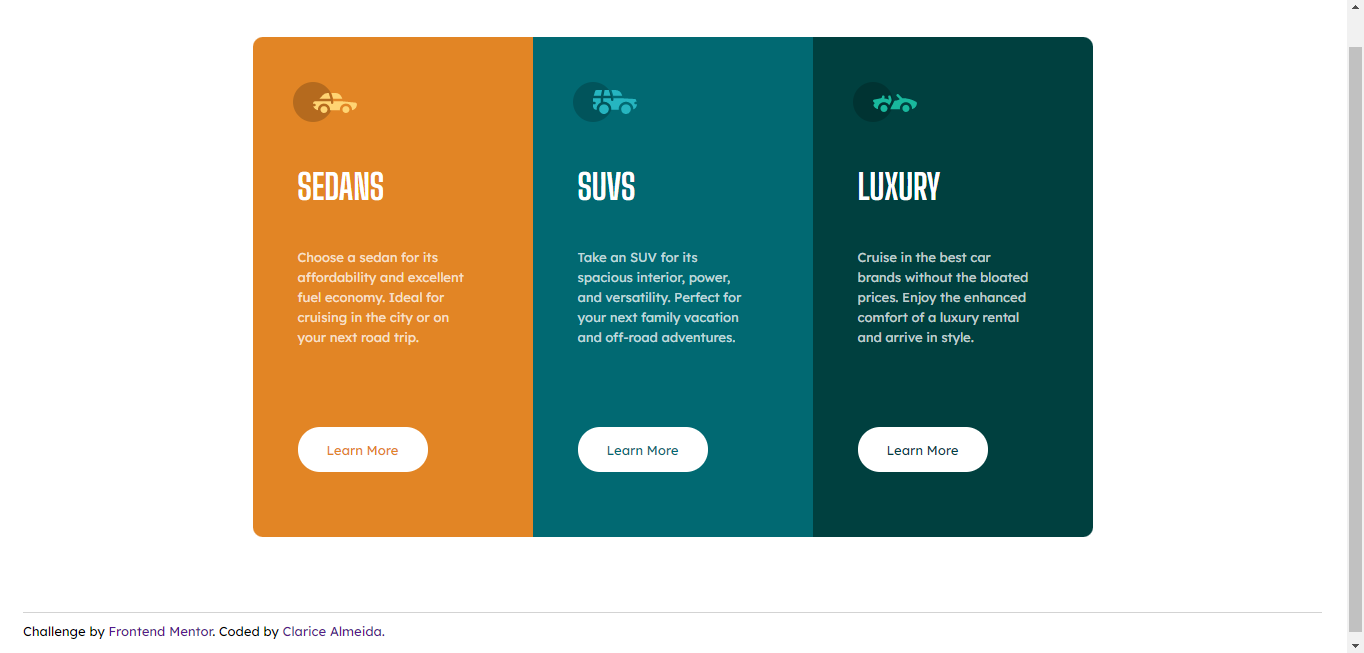
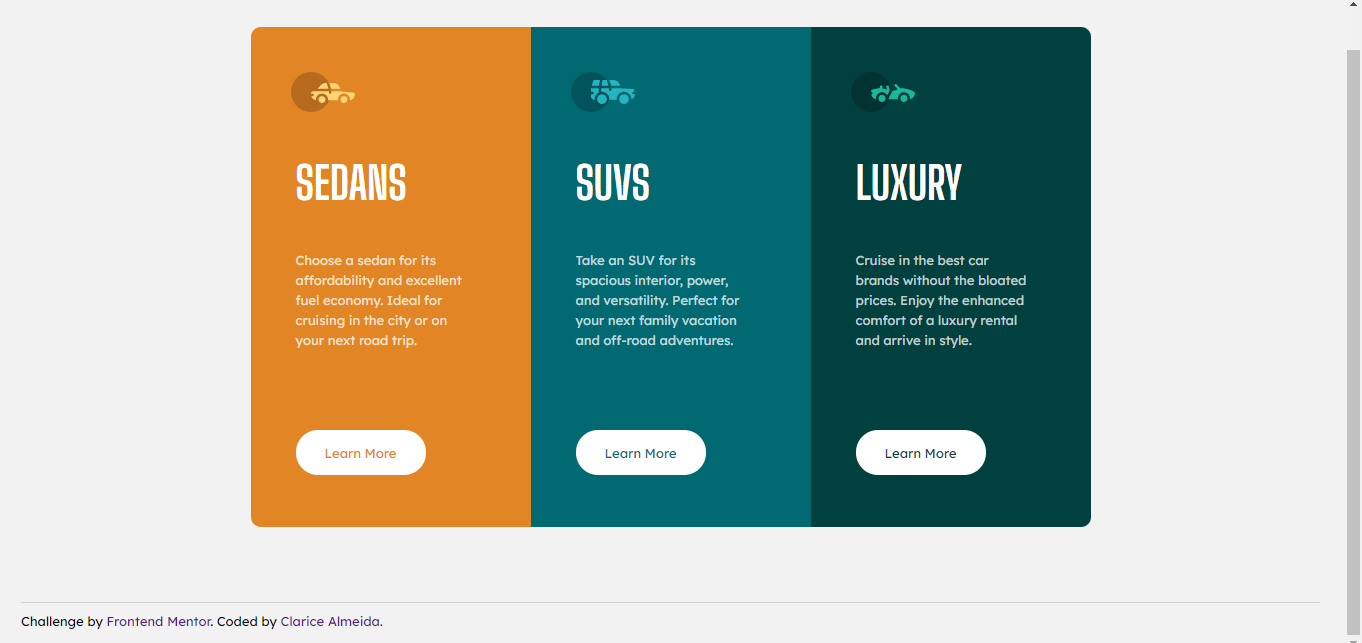
modified files correct some mistakes

diff --git a/index.html b/index.html
@@ -1,8 +1,8 @@
 <!DOCTYPE html>
-<html>
+<html lang="en">
 <head>
     <meta charset="UTF-8"/>
-    <meta name="viewport" content="width=device-width, user-scalable=0"/>
+    <meta name="viewport" content="width=device-width"/>
 
     <link rel="shortcut icon" type="imagex/png" href="../images/favicon-32x32.png">
 
@@ -18,53 +18,53 @@
     <title>Rent a Car</title>
 </head>
 <body>
-    <div class="conteiner">
-        <div class="box">
+    <main role="main" class="conteiner">
+        <nav role="navigation" class="box">
             <div class="box1">
                 <div class="logo">
-                    <img src="assets/images/icon-sedans.svg"/>
+                    <img alt="Sedan Logo" src="assets/images/icon-sedans.svg"/>
                 </div>
                 <div class="text_title">
-                    SEDANS
+                   <h1>SEDANS</h1>
                 </div>
                 <div class="text_desc">
                     Choose a sedan for its affordability and excellent fuel economy. Ideal for cruising in the city or on your next road trip.
                 </div>
                 <a href="">
-                    <div class="button1">Learn More</div>
+                    <div class="button btn_orange">Learn More</div>
                 </a>
             </div>
             <div class="box2">
                 <div class="logo">
-                    <img src="assets/images/icon-suvs.svg"/>
+                    <img alt="SUV Logo" src="assets/images/icon-suvs.svg"/>
                 </div>
                 <div class="text_title">
-                    SUVS
+                    <h1>SUVS</h1>
                 </div>
                 <div class="text_desc">
                     Take an SUV for its spacious interior, power, and versatility. Perfect for your next family vacation and off-road adventures.
                 </div>
                 <a href="">
-                    <div class="button2">Learn More</div>
+                    <div class="button btn_cyan">Learn More</div>
                 </a>
             </div>
             <div class="box3">
                 <div class="logo">
-                    <img src="assets/images/icon-luxury.svg"/>
+                    <img alt="Luxury Logo" src="assets/images/icon-luxury.svg"/>
                 </div>
                 <div class="text_title">
-                    LUXURY
+                    <h1>LUXURY</h1>
                 </div>
                 <div class="text_desc">
                     Cruise in the best car brands without the bloated prices. Enjoy the enhanced comfort of a luxury rental and arrive in style.
                 </div>
                 <a href="">
-                    <div class="button3">Learn More</div>
+                    <div class="button btn_darkcyan">Learn More</div>
                 </a>
             </div>
-        </div>
-    </div>
-    <footer>
+        </nav>
+    </main>
+    <footer role="contentinfo">
         <div class="copyright">Challenge by <a href="https://www.frontendmentor.io/challenges/3column-preview-card-component-pH92eAR2-">Frontend Mentor</a>. Coded by <a href="https://github.com/ClariceAlmeida">Clarice Almeida.</a></div>
     </footer>
 </body>

diff --git a/assets/css/template.css b/assets/css/template.css
@@ -3,6 +3,9 @@
     padding: 0;
     margin: 0;
 }
+body {
+    background-color: #f2f2f2;
+}
 .box {
     display: flex;
 }
@@ -10,7 +13,7 @@
     display: flex;
     justify-content: center;
     align-items: center;
-    height: 650px;
+    min-height: 650px;
     
 }
 .box1,
@@ -18,8 +21,8 @@
 .box3 {
     display: flex;
     flex-direction: column;
-    width: 280px;
-    height: 500px;
+    max-width: 280px;
+    min-height: 500px;
 }
 .box1 {
     background-color: #e28525;
@@ -40,7 +43,7 @@
 }
 .text_title {
     font-family:  'Big Shoulders Display', cursive;
-    font-size: 35px;
+    font-size: 30px;
     padding-left: 45px;
     padding-top: 40px;
     padding-bottom: 40px;
@@ -54,9 +57,7 @@
     padding-right: 60px;
     line-height: 20px;
 }
-.button1,
-.button2,
-.button3 {
+.button {
     width: 130px;
     height: 45px;
     border-radius: 30px;
@@ -72,31 +73,31 @@
 }
 a {
     text-decoration: none;
-    width: 130px;
-    height: 45px;
+    max-width: 130px;
+    min-height: 45px;
 }
-.button1 {
+.btn_orange {
     color:#e28525 ;
 }
-.button2 {
+.btn_cyan {
     color: #016972;
 }
-.button3 {
+.btn_darkcyan {
     color: #00403f;
 }
-.button1:hover {
+.btn_orange:hover {
     border: #FFF solid 1px;
     border-radius: 30px;
     color: #FFF;
     background-color:#e28525;
 }
-.button2:hover {
+.btn_cyan:hover {
     border: #FFF solid 1px;
     border-radius: 30px;
     color: #FFF;
     background-color:#016972;
 }
-.button3:hover {
+.btn_darkcyan:hover {
     border: #FFF solid 1px;
     border-radius: 30px;
     color: #FFF;
@@ -105,7 +106,7 @@ a {
 footer {
     margin-right: 25px;
     margin-left: 25px;
-    height: 50px;
+    min-height: 50px;
 }
 .copyright {
     border-top: 1px solid lightgrey;

diff --git a/README.md b/README.md
@@ -44,6 +44,8 @@ Users should be able to:
 
 I've learned more about the uses of flexbox which i was struggling the most, so it was a good practice.
 
+also, when i submitted the first version i got feedbacks that really helped me understanding what was wrong and most important the reasons why was wrong.
+
 ### Continued development
 
 My plan is to continue studing html and css improving my skills on this technologies and move on to the study of JavaScript in the next months. 
